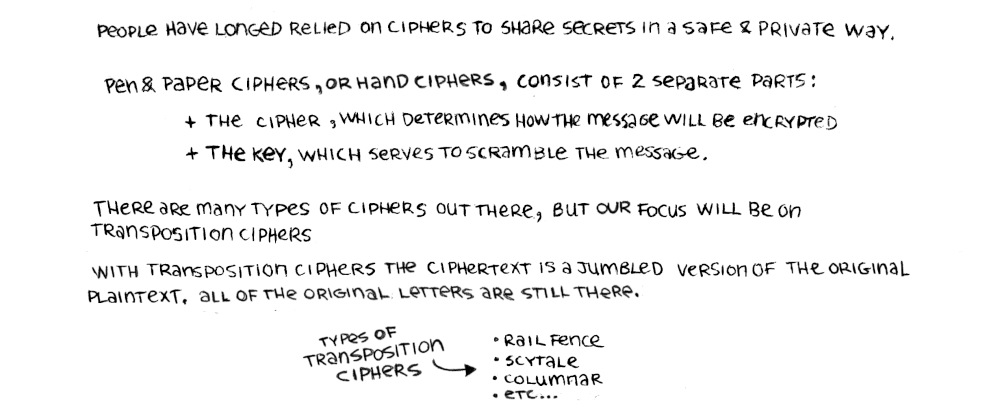
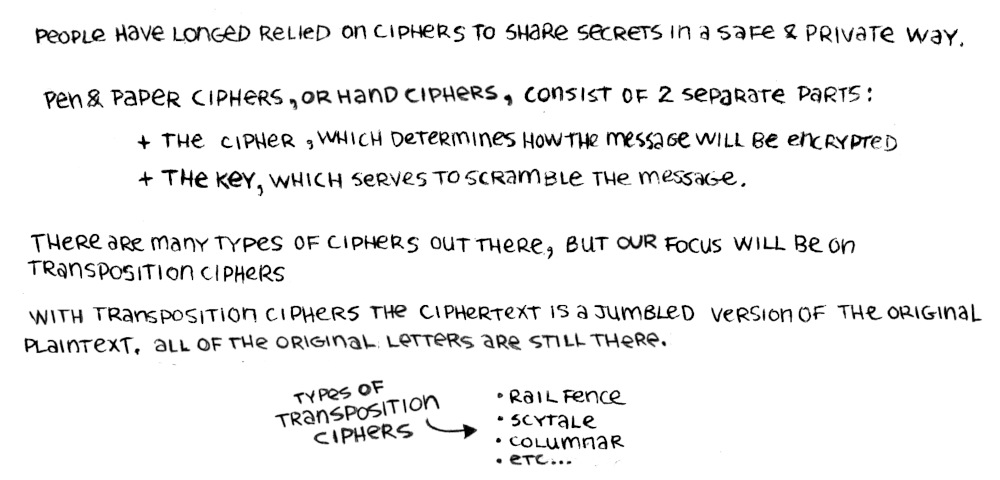
*

diff --git a/404.html b/404.html
@@ -1,0 +1,23 @@
+---
+permalink: /404.html
+---
+<!DOCTYPE html>
+<html lang='en'>
+<head>
+  <link rel="stylesheet" href="links/main.css">
+  <meta charset='utf-8'>
+  <meta name='author' content='Rek Bell'>
+  <meta name='description' content='Rabbit Waves'/>
+  <meta name='keywords' content='worldbuilding, travel'/>
+  <meta name='license' content='name=BY-NC-SA(4.0), url=https://creativecommons.org/licenses/by-nc-sa/4.0/'/>
+  <meta name='thumbnail' content='https://rabbitwaves/media/services/thumbnail.jpg' />
+  <meta name='viewport' content='width=device-width, initial-scale=1.0'>
+  <link rel='alternate'  type='application/rss+xml' title='Rabbit Waves' href='links/rss.xml' />
+  <link rel='icon' type='image/x-icon' href='media/services/favicon.ico'>
+  <link rel='me' href='https://merveilles.town/@rek'/>
+  <title>Rabbit Waves</title>
+</head>
+<body>
+  <a href="https://rabbitwaves.ca"><img src="media/interface/404.jpg" loading="lazy">
+</body>
+</html>

diff --git a/site/hand_ciphers.html b/site/hand_ciphers.html
@@ -20,6 +20,7 @@
     <h1>Hand Ciphers</h1>
 </header>
 <main>
+    <img src='../media/content/cipher_23.jpg' alt=''>
     <img src='../media/content/cipher_01_intro.jpg' alt=''>
     <p class='noprint'>text</p>
     <img src='../media/content/cipher_02.jpg' alt=''>
